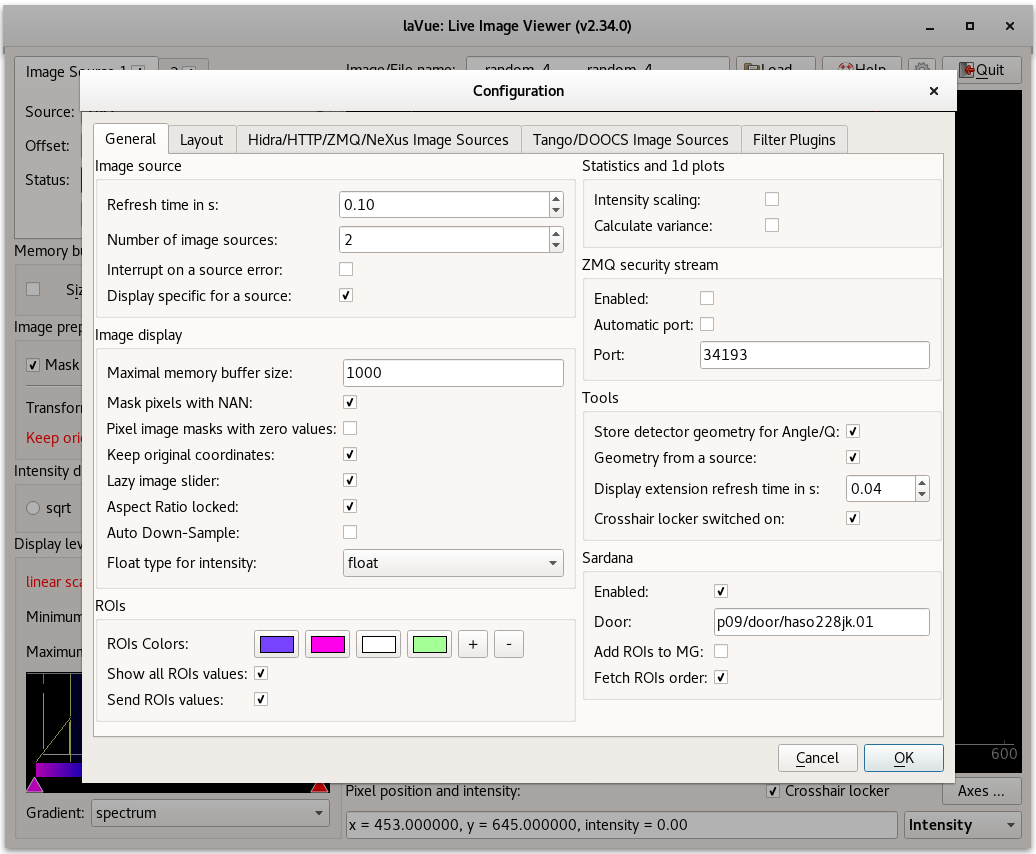
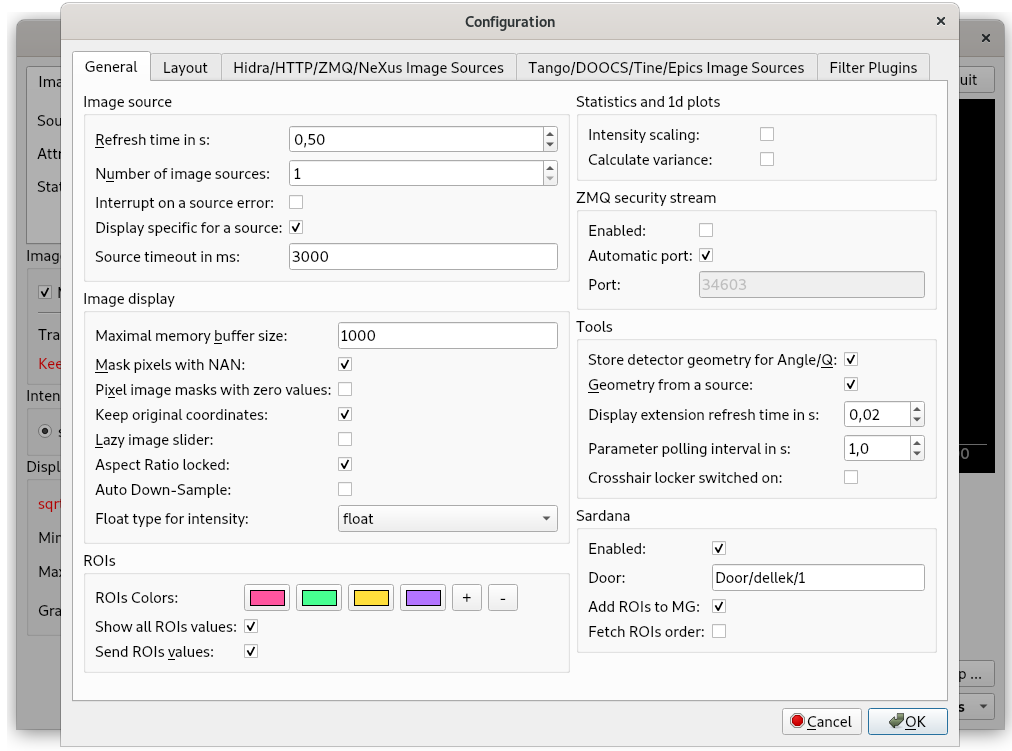
update help widget

diff --git a/lavuelib/help/LaVue---General-Settings_98092147.html b/lavuelib/help/LaVue---General-Settings_98092147.html
@@ -45,7 +45,7 @@
             Created by <span class='author'> Jan Kotanski</span>, last modified on Feb 06, 2020 08:55
                         </div>
                     <div id="main-content" class="wiki-content group">
-                    <p>The first tab of the configuration dialog contains <strong>General Settings</strong>. It is divided into a few groups:</p><p><span class="confluence-embedded-file-wrapper confluence-embedded-manual-size"><img class="confluence-embedded-image"  src="attachments/98092147/145596264.png" data-image-src="attachments/98092147/145596264.png" data-unresolved-comment-count="0" data-linked-resource-id="145596264" data-linked-resource-version="3" data-linked-resource-type="attachment" data-linked-resource-default-alias="lavuegeneralconfig.png" data-base-url="https://confluence.desy.de" data-linked-resource-content-type="image/png" data-linked-resource-container-id="98092147" data-linked-resource-container-version="20"></span></p><p><strong>Image source</strong></p><ul><li><strong>Refresh rate in s: </strong>select a minimal time between consecutive frames</li><li><strong>Number of image sources:  </strong>a number of different image sources  from which images should be stitched</li><li><strong>Interrupt on source errors: </strong>stops live image viewing on image source errors</li><li><strong>Display specific for a source:</strong> store/retrieve display parameters for an each image source separately</li></ul><p><strong>Image display</strong></p><ul><li><strong>Maximal memory buffer size:</strong> maximal frame number in the memory buffer</li><li><strong>Mask pixels with NAN: </strong>store masked pixels as a float Not-A-Number (NAN)</li><li><strong>Pixel masks with zero values: </strong>causes that zero pixel values of mask image are interpreted as masking</li><li><strong>Keep original coordinates:</strong> causes the 2D-plot axes transforms with image transformation</li><li><strong>Lazy image slider: </strong>plot a new image after the image slider is focused out</li><li><strong>Aspect Ratio locked: </strong>sets the aspect ratio to 1:1 in the 2D-plot</li><li><strong>Auto Down-Sample:</strong> turns on auto-down-sampling mode of pyqtgraph</li><li><strong>Float type for</strong> <strong>intensity:  </strong>type to which intensity is converted if it is changed to float type</li></ul><p><strong>ROIs</strong></p><ul><li><strong>ROIs Colors: allows to defined colors of ROIs selection frames. Colors are used cyclically</strong></li><li><strong>Show all ROIs values:</strong> calculates ROIs sum values for all ROI frames</li><li><strong>Send ROIS values:</strong> sends ROIs sum values to<code> LaVueController</code> tango server</li></ul><p><strong>Statistics and 1d plots</strong></p><ul><li><strong>Intensity scaling:</strong> applies the intensity display scaling to image statistics and 1d-plots</li><li><strong>Calculate variance:</strong> perform calculations of variance from image pixel intensities</li></ul><p><strong>ZMQ security stream</strong></p><ul><li><strong>Enabled: </strong>turns on sending the ZMQ security stream with basic informations about the image, e.g. maximal intensity</li><li><strong>Automatic port:</strong> selects a port number for the ZMQ security stream automatically</li><li><strong>Port: </strong>defines a port number for the ZMQ security stream</li></ul><p><strong>Tools</strong></p><ul><li><strong>Store de</strong><strong>tector geometry for </strong><strong>Angle/Q:</strong> store the detector geometry for the Angle/Q tool in the configuration settings</li><li><strong>Geometry form a source:</strong> fetch metadata parameters describing detector geometry from the image source</li><li><strong>Display extension refresh time in s: </strong>Minimum refresh time for display extensions</li><li><strong>Crosshair locker switched on:</strong>  initial status of intensity crosshair locker</li></ul><p><strong>Sardana</strong></p><ul><li><strong>Enabled: </strong>turns on communication with Sardana</li><li><strong>Door: </strong>Door tango device to communicate with Sardana</li><li><strong>Add ROIs to MG:</strong> causes the ROIs Apply button adds the corresponding ROIs aliases into the current Sardana Measurement Group</li><li><strong>Fetch ROIs order: </strong>read a ROIs order from Sardana environment variables</li></ul><p><br/></p><p><br/></p><p><br/></p>
+                    <p>The first tab of the configuration dialog contains <strong>General Settings</strong>. It is divided into a few groups:</p><p><span class="confluence-embedded-file-wrapper confluence-embedded-manual-size"><img class="confluence-embedded-image" width="800" src="attachments/98092147/145596264.png" data-image-src="attachments/98092147/145596264.png" data-unresolved-comment-count="0" data-linked-resource-id="145596264" data-linked-resource-version="4" data-linked-resource-type="attachment" data-linked-resource-default-alias="lavuegeneralconfig.png" data-base-url="https://confluence.desy.de" data-linked-resource-content-type="image/png" data-linked-resource-container-id="98092147" data-linked-resource-container-version="23"></span></p><p><strong>Image source</strong></p><ul><li><strong>Refresh rate in s: </strong>select a minimal time between consecutive frames</li><li><strong>Number of image sources:  </strong>a number of different image sources  from which images should be stitched</li><li><strong>Interrupt on source errors: </strong>stops live image viewing on image source errors</li><li><strong>Display specific for a source:</strong> store/retrieve display parameters for an each image source separately</li><li><strong>Source timeout in ms:</strong> maximal time in milliseconds to wait for a response , e.g. from  Hidra or HTTP image sources</li></ul><p><strong>Image display</strong></p><ul><li><strong>Maximal memory buffer size:</strong> maximal frame number in the memory buffer</li><li><strong>Mask pixels with NAN: </strong>store masked pixels as a float Not-A-Number (NAN)</li><li><strong>Pixel masks with zero values: </strong>causes that zero pixel values of mask image are interpreted as masking</li><li><strong>Keep original coordinates:</strong> causes the 2D-plot axes transforms with image transformation</li><li><strong>Lazy image slider: </strong>plot a new image after the image slider is focused out</li><li><strong>Aspect Ratio locked: </strong>sets the aspect ratio to 1:1 in the 2D-plot</li><li><strong>Auto Down-Sample:</strong> turns on auto-down-sampling mode of pyqtgraph</li><li><strong>Float type for</strong> <strong>intensity:  </strong>type to which intensity is converted if it is changed to float type</li></ul><p><strong>ROIs</strong></p><ul><li><strong>ROIs Colors: allows to defined colors of ROIs selection frames. Colors are used cyclically</strong></li><li><strong>Show all ROIs values:</strong> calculates ROIs sum values for all ROI frames</li><li><strong>Send ROIS values:</strong> sends ROIs sum values to<code> LaVueController</code> tango server</li></ul><p><strong>Statistics and 1d plots</strong></p><ul><li><strong>Intensity scaling:</strong> applies the intensity display scaling to image statistics and 1d-plots</li><li><strong>Calculate variance:</strong> perform calculations of variance from image pixel intensities</li></ul><p><strong>ZMQ security stream</strong></p><ul><li><strong>Enabled: </strong>turns on sending the ZMQ security stream with basic informations about the image, e.g. maximal intensity</li><li><strong>Automatic port:</strong> selects a port number for the ZMQ security stream automatically</li><li><strong>Port: </strong>defines a port number for the ZMQ security stream</li></ul><p><strong>Tools</strong></p><ul><li><strong>Store de</strong><strong>tector geometry for </strong><strong>Angle/Q:</strong> store the detector geometry for the Angle/Q tool in the configuration settings</li><li><strong>Geometry form a source:</strong> fetch metadata parameters describing detector geometry from the image source</li><li><strong>Display extension refresh time in s: </strong>Minimum refresh time for display extensions</li><li><strong>Parameter polling inverval in s: </strong>time in seconds between read-outs of detector tango attributes in the Parameters tool</li><li><strong>Crosshair locker switched on:</strong>  initial status of intensity crosshair locker</li></ul><p><strong>Sardana</strong></p><ul><li><strong>Enabled: </strong>turns on communication with Sardana</li><li><strong>Door: </strong>Door tango device to communicate with Sardana</li><li><strong>Add ROIs to MG:</strong> causes the ROIs Apply button adds the corresponding ROIs aliases into the current Sardana Measurement Group</li><li><strong>Fetch ROIs order: </strong>read a ROIs order from Sardana environment variables</li></ul><p><br/></p><p><br/></p><p><br/></p>
                     </div>
 
                                         </div><section><!-- <div class="pageSection group">

diff --git a/lavuelib/help/LaVue---Image-Sources--and-stitching-images_98091949.html b/lavuelib/help/LaVue---Image-Sources--and-stitching-images_98091949.html
@@ -42,7 +42,7 @@
             Created by <span class='author'> Jan Kotanski</span>, last modified on Jan 09, 2020 13:17
                         </div>
                     <div id="main-content" class="wiki-content group">
-                    <p style="margin-left: 0.0px;">The user can select in the <strong>IMAGE</strong> <strong>SOURCES</strong> combo-box  the following source types:</p><ul><li><strong>Hidra</strong> - image from a Hidra server, e.g. <span>Pilatus, Perkin Elmer</span></li><li><strong>HTTP response</strong> - image from an http response, e.g. <span>Eiger</span></li><li><strong>Tango Attribute</strong> - image from a tango attribute, e.g. <span>Lambda, PCO, AGIPD, Jungfrau </span>or <span>LimaCCDs</span> detectors</li><li><strong>Tango Events</strong> - image from a tango attribute passed via tango events, e.g. <span>LimaCCDs</span> detectors</li><li><strong>Tango File</strong> - image defined by file and directory tango attributes, e.g. <span>Pilatus</span> w/o Hidra</li><li><strong>DOOCS Property </strong>- image from a doocs property, e.g.  FLASH detectors</li><li><strong>ZMQ Stream</strong> - image from a simple ZMQ server, e.g. <span>lavuezmqstreamfromtango</span> SERVER</li><li><strong>Nexus File</strong> - image from a Nexus/Hdf5 file, e.g. written with <span>SWMR</span></li><li><strong>Test</strong> - random test image</li></ul><p>By enlarging a number of image sources in  the <code>expert</code> mode: <code> </code></p><p>        <code><strong>Configuration</strong> <strong>→</strong> <strong>General → Number of image sources</strong></code></p><p>the user  can <strong>combine images</strong> from different sources, i.e. different detectors or detector modules.</p><p><br/></p><p><span class="confluence-embedded-file-wrapper confluence-embedded-manual-size"><img class="confluence-embedded-image"  src="attachments/98091949/148824060.png" data-image-src="attachments/98091949/148824060.png" data-unresolved-comment-count="0" data-linked-resource-id="148824060" data-linked-resource-version="3" data-linked-resource-type="attachment" data-linked-resource-default-alias="lavue-multiplesources.png" data-base-url="https://confluence.desy.de" data-linked-resource-content-type="image/png" data-linked-resource-container-id="98091949" data-linked-resource-container-version="10"></span></p><ul><li><strong>Offset</strong>: <code>x,y[,TRANSFORMATION]</code>  where <code>x,y</code> are position of the first pixel for a particular image source while optional <code>TRANSFORMATION</code> can be  <code>flip-up-down</code>, <code>flipud</code>, <code>fud</code>, <code>flip-left-right</code>, <code>fliplr</code>, <code>flr</code>, <code>transpose</code>, <code>t</code>, <code>rot90</code>, <code>r90</code>, <code>rot180</code>, <code>r180</code>, <code>r270</code>, <code>rot270</code>, <code>rot180+transpose</code>, <code>rot180t</code> or <code>r180t</code></li><li><strong>Checkbox </strong> in the tag widget allows for switch on/off the corresponding image source</li></ul><p><strong>Start/ Stop </strong>button is only at the first source but it applies to all image sources.</p>
+                    <p style="margin-left: 0.0px;">The user can select in the <strong>IMAGE</strong> <strong>SOURCES</strong> combo-box  the following source types:</p><ul><li><strong>Hidra</strong> - image from a Hidra server, e.g. <span>Pilatus, Perkin Elmer</span></li><li><strong>HTTP response</strong> - image from an http response, e.g. <span>Eiger</span></li><li><strong>Tango Attribute</strong> - image from a tango attribute, e.g. <span>Lambda, PCO, AGIPD, Jungfrau </span>or <span>LimaCCDs</span> detectors</li><li><strong>Tango Events</strong> - image from a tango attribute passed via tango events, e.g. <span>LimaCCDs</span> detectors</li><li><strong>Tango File</strong> - image defined by file and directory tango attributes, e.g. <span>Pilatus</span> w/o Hidra</li><li><strong>DOOCS Property </strong>- image from a doocs property, e.g.  FLASH detectors</li><li><strong>ZMQ Stream</strong> - image from a simple ZMQ server, e.g. <span>lavuezmqstreamfromtango</span> SERVER</li><li><strong>Nexus File</strong> - image from a Nexus/Hdf5 file, e.g. written with <span>SWMR</span></li><li><strong>Tine Property</strong> - image from a tine property, e.g. bpm camera</li><li><strong>Epics PV </strong>- images from a Epics Process Variables</li><li><strong>Test</strong> - random test image</li></ul><p>By enlarging a number of image sources in  the <code>expert</code> mode: <code> </code></p><p>        <code><strong>Configuration</strong> <strong>→</strong> <strong>General → Number of image sources</strong></code></p><p>the user  can <strong>combine images</strong> from different sources, i.e. different detectors or detector modules.</p><p><br/></p><p><span class="confluence-embedded-file-wrapper confluence-embedded-manual-size"><img class="confluence-embedded-image" width="800" src="attachments/98091949/148824060.png" data-image-src="attachments/98091949/148824060.png" data-unresolved-comment-count="0" data-linked-resource-id="148824060" data-linked-resource-version="3" data-linked-resource-type="attachment" data-linked-resource-default-alias="lavue-multiplesources.png" data-base-url="https://confluence.desy.de" data-linked-resource-content-type="image/png" data-linked-resource-container-id="98091949" data-linked-resource-container-version="13"></span></p><ul><li><strong>Offset</strong>: <code>x,y[,TRANSFORMATION]</code>  where <code>x,y</code> are position of the first pixel for a particular image source while optional <code>TRANSFORMATION</code> can be  <code>flip-up-down</code>, <code>flipud</code>, <code>fud</code>, <code>flip-left-right</code>, <code>fliplr</code>, <code>flr</code>, <code>transpose</code>, <code>t</code>, <code>rot90</code>, <code>r90</code>, <code>rot180</code>, <code>r180</code>, <code>r270</code>, <code>rot270</code>, <code>rot180+transpose</code>, <code>rot180t</code> or <code>r180t</code></li><li><strong>Checkbox </strong> in the tag widget allows for switch on/off the corresponding image source</li></ul><p><strong>Start/ Stop </strong>button is only at the first source but it applies to all image sources.</p>
                     </div>
 
                                         </div><section><!-- <div class="pageSection group">

diff --git a/lavuelib/help/98092151.html b/lavuelib/help/98092151.html
@@ -45,7 +45,7 @@
             Created by <span class='author'> Jan Kotanski</span>, last modified on Jan 10, 2020 11:44
                         </div>
                     <div id="main-content" class="wiki-content group">
-                    <p><br/></p><p>The third tab of the configuration dialog contains <strong>Image Sources</strong> configuration. It allows for the user to adjust image sources and their dialogs.</p><p><span class="confluence-embedded-file-wrapper confluence-embedded-manual-size"><img class="confluence-embedded-image"  src="attachments/98092151/129385454.png" data-image-src="attachments/98092151/129385454.png" data-unresolved-comment-count="0" data-linked-resource-id="129385454" data-linked-resource-version="2" data-linked-resource-type="attachment" data-linked-resource-default-alias="lavue_config_isources.png" data-base-url="https://confluence.desy.de" data-linked-resource-content-type="image/png" data-linked-resource-container-id="98092151" data-linked-resource-container-version="14"></span></p><p><strong>Hidra:</strong></p><ul><li><strong>Source timeout in ms: </strong>maximal time for waiting for a new image in one call</li><li><strong>Detector servers:  </strong>possible list of hidra detector hosts separated by spaces</li><li><strong>Data port: </strong>hidra data port. Each instance of lavue on the same host should use a different data port</li><li><strong>Use default detector servers: </strong>add default detector server names from the DESY pool</li></ul><p><strong>HTTP response</strong></p><ul><li><strong> URLs:</strong> <a href="https://www.json.org/" class="external-link" rel="nofollow">JSON</a> dictionary assigning labels to HTTP urls</li></ul><p><strong>ZMQ Stream</strong></p><ul><li><strong>Servers and Ports:</strong><a href="https://www.json.org/" class="external-link" rel="nofollow"> JSON</a> dictionary assigning labels to server and port of ZMQ stream</li><li><strong>Automatic datasources: </strong>selects possible datasources from ZMQ stream metadata</li><li><strong>Datasources: </strong>defines possible datasources, i.e. ZMQ topics, separated by spaces</li></ul><p><strong>Nexus File</strong></p><ul><li><strong>Keep the file open:</strong> does not close the nexus file after reading the field frame</li><li><strong>Start from the last image: </strong>displays only the last image frame</li></ul><p><br/></p><p><br/></p>
+                    <p><br/></p><p>The third tab of the configuration dialog contains <strong>Image Sources</strong> configuration. It allows for the user to adjust image sources and their dialogs.</p><p><span class="confluence-embedded-file-wrapper confluence-embedded-manual-size"><img class="confluence-embedded-image" width="800" src="attachments/98092151/129385454.png" data-image-src="attachments/98092151/129385454.png" data-unresolved-comment-count="0" data-linked-resource-id="129385454" data-linked-resource-version="3" data-linked-resource-type="attachment" data-linked-resource-default-alias="lavue_config_isources.png" data-base-url="https://confluence.desy.de" data-linked-resource-content-type="image/png" data-linked-resource-container-id="98092151" data-linked-resource-container-version="16"></span></p><p><strong>Hidra:</strong></p><ul><li><strong>Detector servers:  </strong>possible list of hidra detector hosts separated by spaces</li><li><strong>Data port: </strong>hidra data port. Each instance of lavue on the same host should use a different data port</li><li><strong>Use default detector servers: </strong>add default detector server names from the DESY pool</li></ul><p><strong>HTTP response</strong></p><ul><li><strong> URLs:</strong> <a href="https://www.json.org/" class="external-link" rel="nofollow">JSON</a> dictionary assigning labels to HTTP urls</li></ul><p><strong>ZMQ Stream</strong></p><ul><li><strong>Servers and Ports:</strong><a href="https://www.json.org/" class="external-link" rel="nofollow"> JSON</a> dictionary assigning labels to server and port of ZMQ stream</li><li><strong>Automatic datasources: </strong>selects possible datasources from ZMQ stream metadata</li><li><strong>Datasources: </strong>defines possible datasources, i.e. ZMQ topics, separated by spaces</li></ul><p><strong>Nexus File</strong></p><ul><li><strong>Keep the file open:</strong> does not close the nexus file after reading the field frame</li><li><strong>Start from the last image: </strong>displays only the last image frame</li></ul><p><br/></p><p><br/></p>
                     </div>
 
                                         </div><section><!-- <div class="pageSection group">

diff --git a/lavuelib/help/LaVue---Parameters_159771545.html b/lavuelib/help/LaVue---Parameters_159771545.html
@@ -1,0 +1,66 @@
+<!DOCTYPE html>
+<html>
+    <head>
+        <title>LaVue - Parameters</title>
+        <link rel="stylesheet" href="styles/site.css" type="text/css" />
+        <META http-equiv="Content-Type" content="text/html; charset=UTF-8">
+    </head>
+
+    <body class="theme-default aui-theme-default">
+        <div id="page">
+            <div id="main" class="aui-page-panel">
+                <div id="main-header">
+                    <div id="breadcrumb-section">
+                        <ol id="breadcrumbs">
+                            <li class="first">
+                                <span><a href="index.html">FS-EC</a></span>
+                            </li>
+                                                    <li>
+                                <span><a href="LaVue---Specialized-Tools_98091979.html">LaVue - Specialized Tools</a></span>
+                            </li>
+                                                </ol>
+                    </div>
+                    <h1 id="title-heading" class="pagetitle">
+                                                <span id="title-text">
+                            LaVue - Parameters
+                        </span>
+                    </h1>
+                </div>
+
+                <div id="content" class="view">
+                    <div class="page-metadata">
+                        
+        
+    
+        
+    
+        
+        
+            Created by <span class='author'> Jan Kotanski</span>, last modified on kwi 02, 2020 10:41
+                        </div>
+                    <div id="main-content" class="wiki-content group">
+                    <p><strong>Parameters Tool </strong>allows to read and write tango attributes to change detector settings</p><p><span class="confluence-embedded-file-wrapper confluence-embedded-manual-size"><img class="confluence-embedded-image" width="800" src="attachments/159771545/159771561.png" data-image-src="attachments/159771545/159771561.png" data-unresolved-comment-count="0" data-linked-resource-id="159771561" data-linked-resource-version="1" data-linked-resource-type="attachment" data-linked-resource-default-alias="lavueparameters.png" data-base-url="https://confluence.desy.de" data-linked-resource-content-type="image/png" data-linked-resource-container-id="159771545" data-linked-resource-container-version="4"></span></p><ul><li><strong>Setup: </strong>add and remove tango device attributes and their labels to the list of parameters</li><li><strong>Apply:</strong> write parameter values from the white edit widget to the corresponding tango device attribute</li></ul><p><strong>Read values</strong> of parameters are displayed in the corresponding green widgets.</p>
+                    </div>
+
+                                        </div><section><!-- <div class="pageSection group">
+                        <div class="pageSectionHeader">
+                            <h2 id="attachments" class="pageSectionTitle">Attachments:</h2>
+                        </div>
+
+                        <div class="greybox" align="left">
+                                                            <img src="images/icons/bullet_blue.gif" height="8" width="8" alt=""/>
+                                <a href="attachments/159771545/159771561.png">lavueparameters.png</a> (image/png)
+                                <br/>
+                                                    </div>
+                    </div>
+                    
+                 
+                </div>             </div> 
+            <div id="footer" role="contentinfo">
+                <section class="footer-body">
+                    <p>Document generated by Confluence on 02. kwi. 2020 11:01</p>
+                    <div id="footer-logo"><a href="http://www.atlassian.com/">Atlassian</a></div>-->
+                </section>
+            </div>
+        </div>     </body>
+</html>

diff --git a/lavuelib/help/LaVue---Specialized-Tools_98091979.html b/lavuelib/help/LaVue---Specialized-Tools_98091979.html
@@ -42,7 +42,7 @@
             Created by <span class='author'> Jan Kotanski</span>, last modified on Nov 23, 2018 11:26
                         </div>
                     <div id="main-content" class="wiki-content group">
-                    <p style="margin-left: 0.0px;">In the bottom-right corner <code>ComboBox</code> the user selects one of the <strong>SPECIALIZED IMAGE TOOLS:</strong></p><ul><li><strong>Intensity</strong> - shows intensity of the selected pixels</li><li><strong>ROI</strong> - selects Regions Of Interest and culculates a sum of their pixel intensities</li><li><strong>LineCut </strong>- selects Line Cuts and shows their 1d intensity plots</li><li><strong>Angle/Q</strong> - shows pixel coordinates in q-space or theta-angles</li><li><strong>MoveMotor</strong> - moves the selected motors to the position pointed by mouse</li><li><strong>MeshScan</strong> - performs sardana mesh scan on the selected ROI region</li><li><strong>1d-Plot</strong> - plots 1d-plots of the selected image rows</li><li><strong>Projections</strong> - plots horizontal and vertical projections of the current image</li><li><strong>Q+ROI+Proj</strong> - combines <strong>Angle/Q</strong>, <strong>ROI</strong> and Projections</li><li><strong>Maxima</strong> - points pixels with the highest intensity</li></ul><p style="margin-left: 0.0px;"><br/></p>
+                    <p style="margin-left: 0.0px;">In the bottom-right corner <code>ComboBox</code> the user selects one of the <strong>SPECIALIZED IMAGE TOOLS:</strong></p><ul><li><strong>Intensity</strong> - shows intensity of the selected pixels</li><li><strong>ROI</strong> - selects Regions Of Interest and culculates a sum of their pixel intensities</li><li><strong>LineCut </strong>- selects Line Cuts and shows their 1d intensity plots</li><li><strong>Angle/Q</strong> - shows pixel coordinates in q-space or theta-angles</li><li><strong>MoveMotor</strong> - moves the selected motors to the position pointed by mouse</li><li><strong>MeshScan</strong> - performs sardana mesh scan on the selected ROI region</li><li><strong>1d-Plot</strong> - plots 1d-plots of the selected image rows</li><li><strong>Projections</strong> - plots horizontal and vertical projections of the current image</li><li><strong>Q+ROI+Proj</strong> - combines <strong>Angle/Q</strong>, <strong>ROI</strong> and Projections</li><li><strong>Maxima</strong> - points pixels with the highest intensity</li><li><strong>Parameters</strong> - reads and writes tango attributes to change detector settings</li></ul><p style="margin-left: 0.0px;"><br/></p>
                     </div>
 
                     

diff --git a/lavuelib/release.py b/lavuelib/release.py
@@ -26,4 +26,4 @@
 """ release version """
 
 #: (:obj:`str`) the live viewer version
-__version__ = "2.41.1"
+__version__ = "2.41.2"
